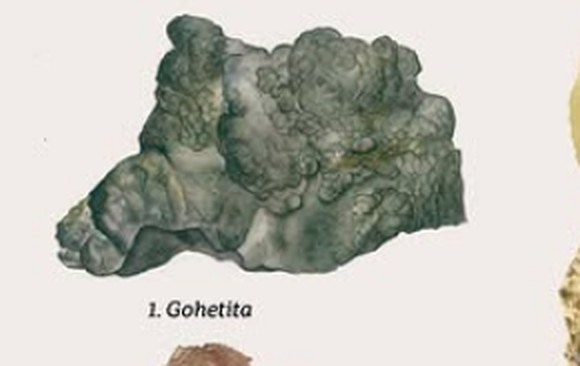
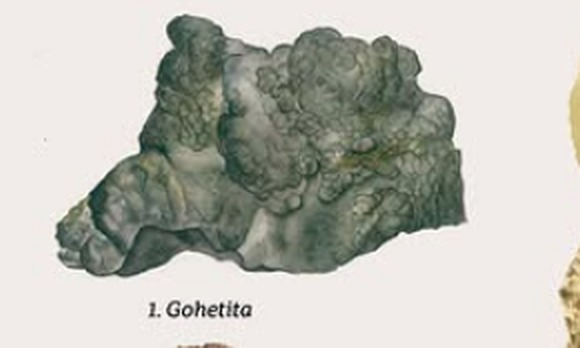
Add files via upload

diff --git a/portfolio.html b/portfolio.html
@@ -146,7 +146,7 @@
       </div>
 
       <div class="pf-card">
-        <div class="pf-art pf-art-photo"><img src="pf-gohetita.jpg" alt="Ilustración de mineral Gohetita" style="width:100%; height:100%; object-fit:cover;"></div>
+        <div class="pf-art pf-art-photo"><img src="pf-gohetita.jpg" alt="Ilustración de mineral Gohetita" style="width:100%; height:100%; object-fit:contain; background:var(--paper-2);"></div>
         <div class="pf-info">
           <span class="tag" data-i18n="v9.tag">Ilustración mineralógica · Acuarela</span>
           <h3 data-i18n="v9.h3">Gohetita — Mina Malaespera</h3>